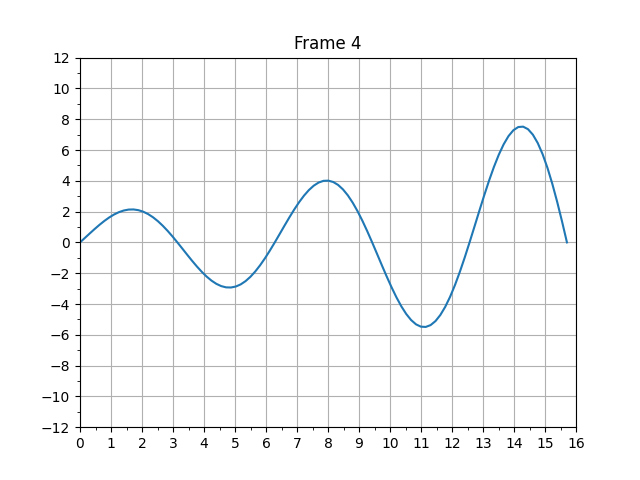
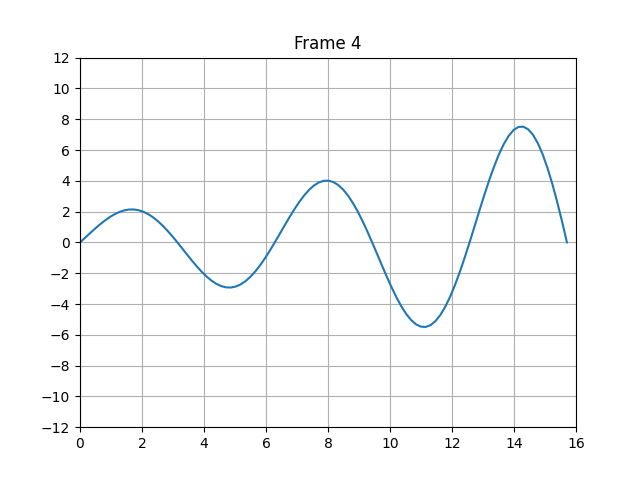
Issues 2 completed

diff --git a/Lab_MPL/Episode 2/main.py b/Lab_MPL/Episode 2/main.py
@@ -19,12 +19,7 @@ with open("01.dat") as file:
         axs[n, m].set_xlim([0, 16])
         axs[n, m].set_ylim([-12, 12])
         axs[n, m].grid()
-        axs[n, m].xaxis.set_major_locator(ticker.MultipleLocator(1))
-        axs[n, m].xaxis.set_minor_locator(ticker.MultipleLocator(0.5))
         axs[n, m].yaxis.set_major_locator(ticker.MultipleLocator(2))
-        axs[n, m].yaxis.set_minor_locator(ticker.MultipleLocator(1))
-        for label in (axs[n, m].get_xticklabels() + axs[n, m].get_yticklabels()):
-            label.set_fontsize(8)
         if n == 2:
             n = 0
             m += 1
@@ -53,10 +48,7 @@ with open("01.dat") as file:
         axs.set_xlim([0, 16])
         axs.set_ylim([-12, 12])
         axs.grid()
-        axs.xaxis.set_major_locator(ticker.MultipleLocator(1))
-        axs.xaxis.set_minor_locator(ticker.MultipleLocator(0.5))
         axs.yaxis.set_major_locator(ticker.MultipleLocator(2))
-        axs.yaxis.set_minor_locator(ticker.MultipleLocator(1))
 
         plt.savefig(f'GIF/res{num}.png')
         plt.close(fig)
